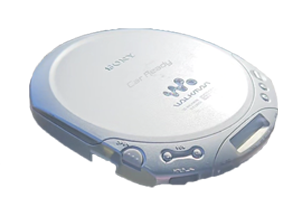
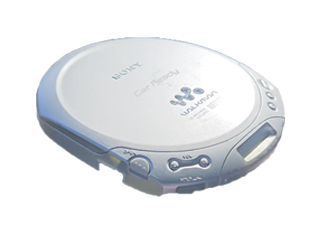
replace cd player images and letter image + add letter outlined image

diff --git a/src/sketch.js b/src/sketch.js
@@ -86,13 +86,13 @@ new p5((p5) => {
     roomOverview.addObject(new Image(images.get("assets/old_tv.png"), 350, 250, 0.4, "PLAYER_RUN"));
     roomOverview.addObject(new Image(images.get("assets/cake.png"), 530, 500, 0.25, "IMAGE_BIRTHDAY"));
     roomOverview.addObject(new Image(images.get("assets/tea_mug.png"), 700, 400, 0.4, "VIDEO_TEATIME"));
-    roomOverview.addObject(new Image(images.get("assets/letter.png"), 1050, 430, 0.4, "IMAGE_NOTE"));
+    roomOverview.addObject(new Image(images.get("assets/letter.png"), 1050, 400, 0.4, "IMAGE_NOTE", images.get("assets/letter__outlined.png")));
 
     const table = new Image(images.get("assets/table.png"), 800, 300, 0.4, "table");
     table.isMouseOver = () => { return false };
     roomOverview.addObject(table);
 
-    roomOverview.addObject(new Image(images.get("assets/cd_player.png"), 950, 330, 0.4, "VIDEO_PIANO", images.get("assets/cd_player__outlined.png")));
+    roomOverview.addObject(new Image(images.get("assets/cd_player.png"), 950, 320, 0.4, "VIDEO_PIANO", images.get("assets/cd_player__outlined.png")));
     roomOverview.addObject(new Image(images.get("assets/portrait.png"), 1100, 50, 0.4, "CLOSEUP_PORTRAIT"));
     roomOverview.addObject(new Image(images.get("assets/orange.png"), 200, 750, 0.4, "CLOSEUP_ORANGE"));
     roomOverview.addObject(new Image(images.get("assets/mr.momo.png"), 600, 650, 0.4, "Momo: ..."));
